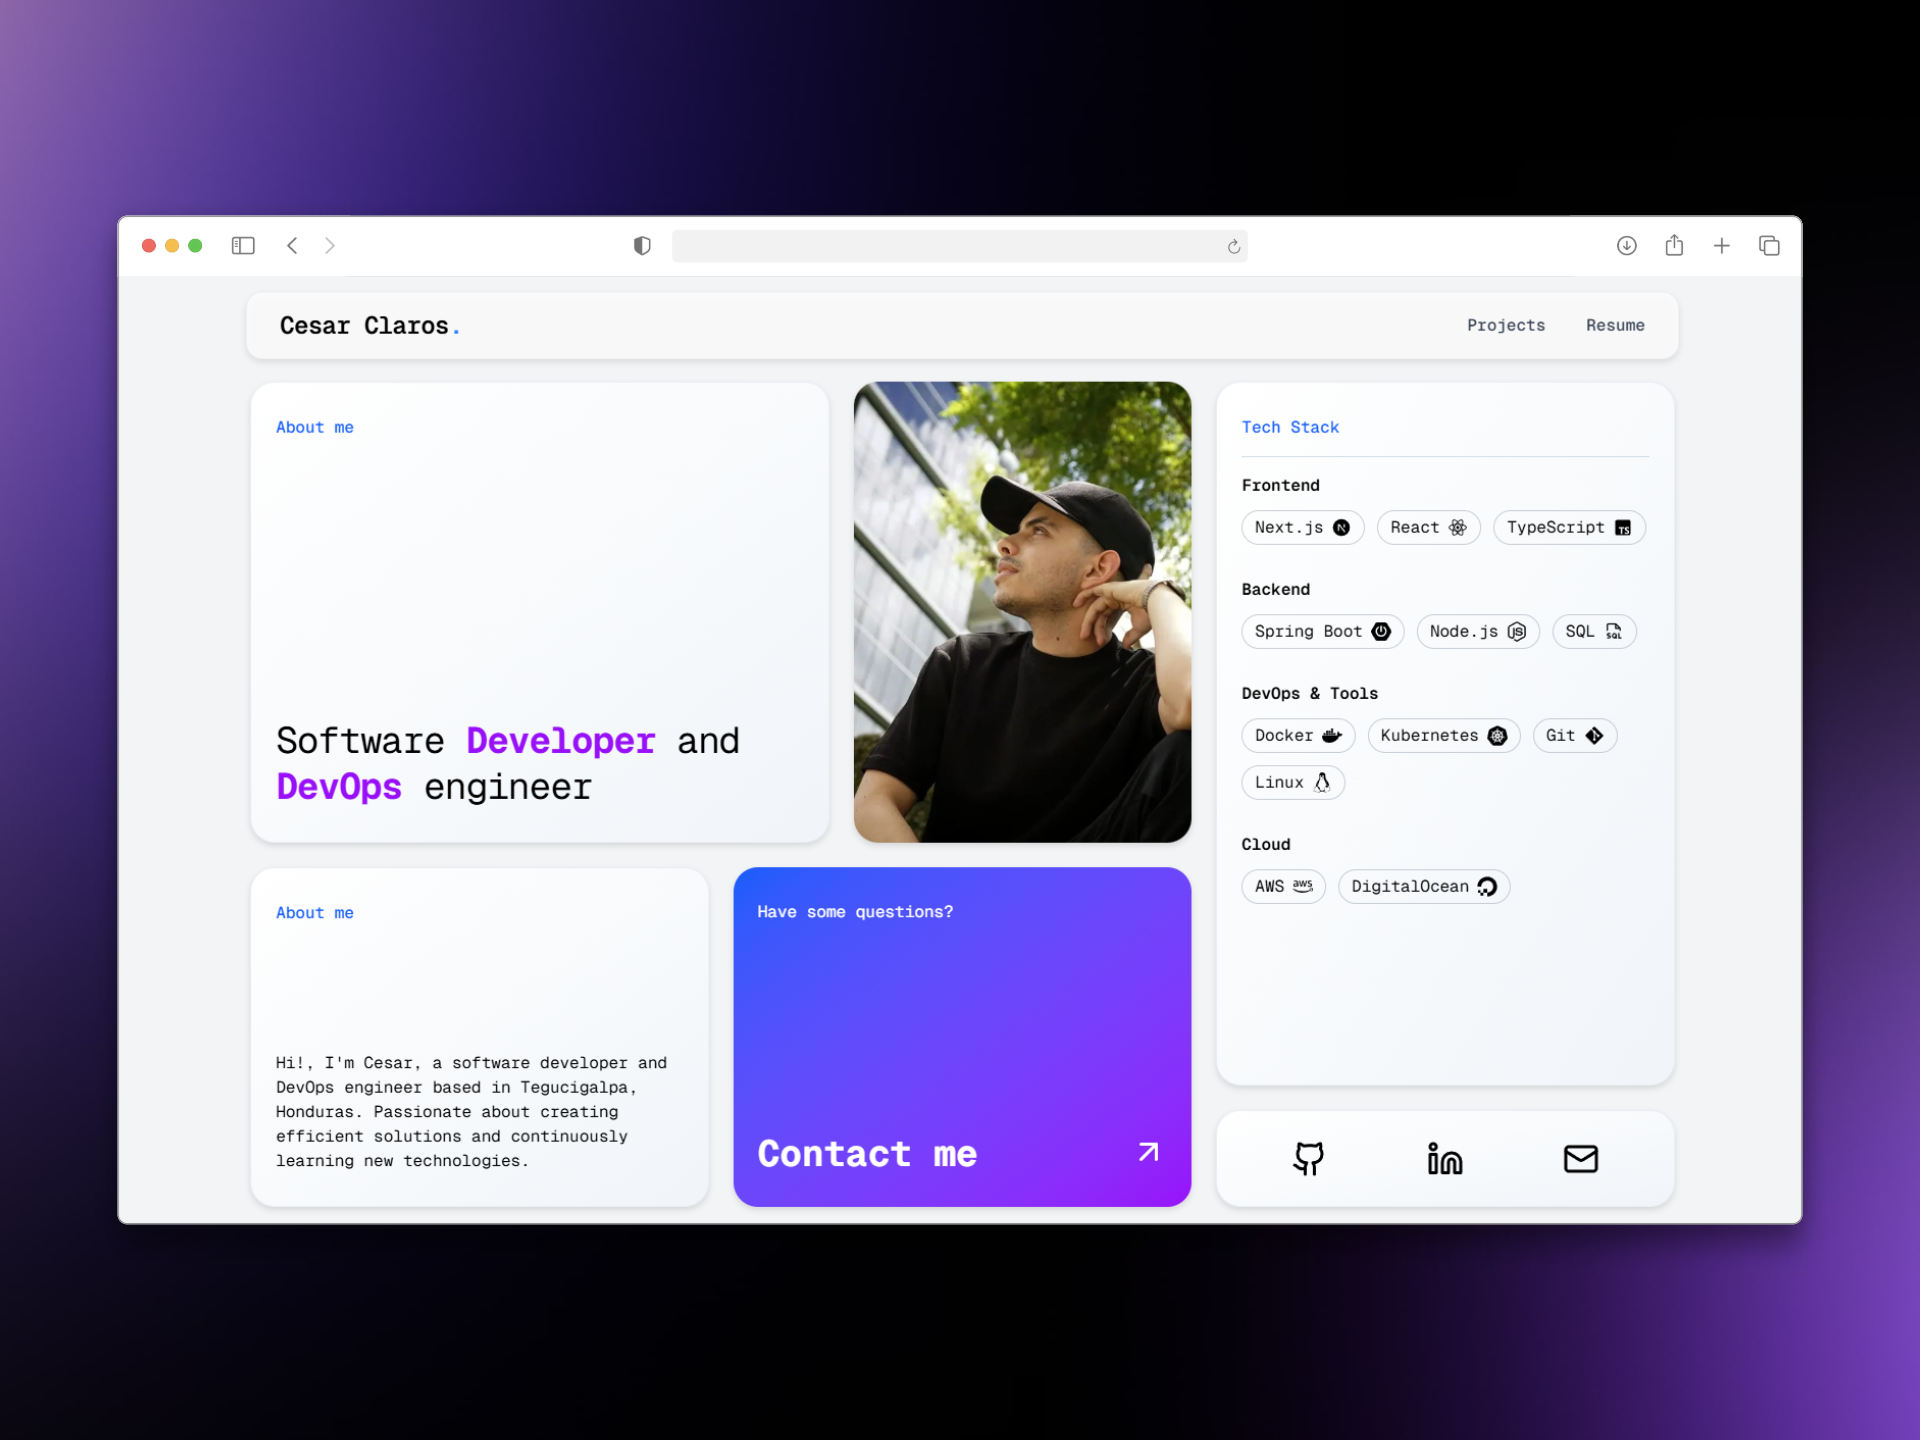
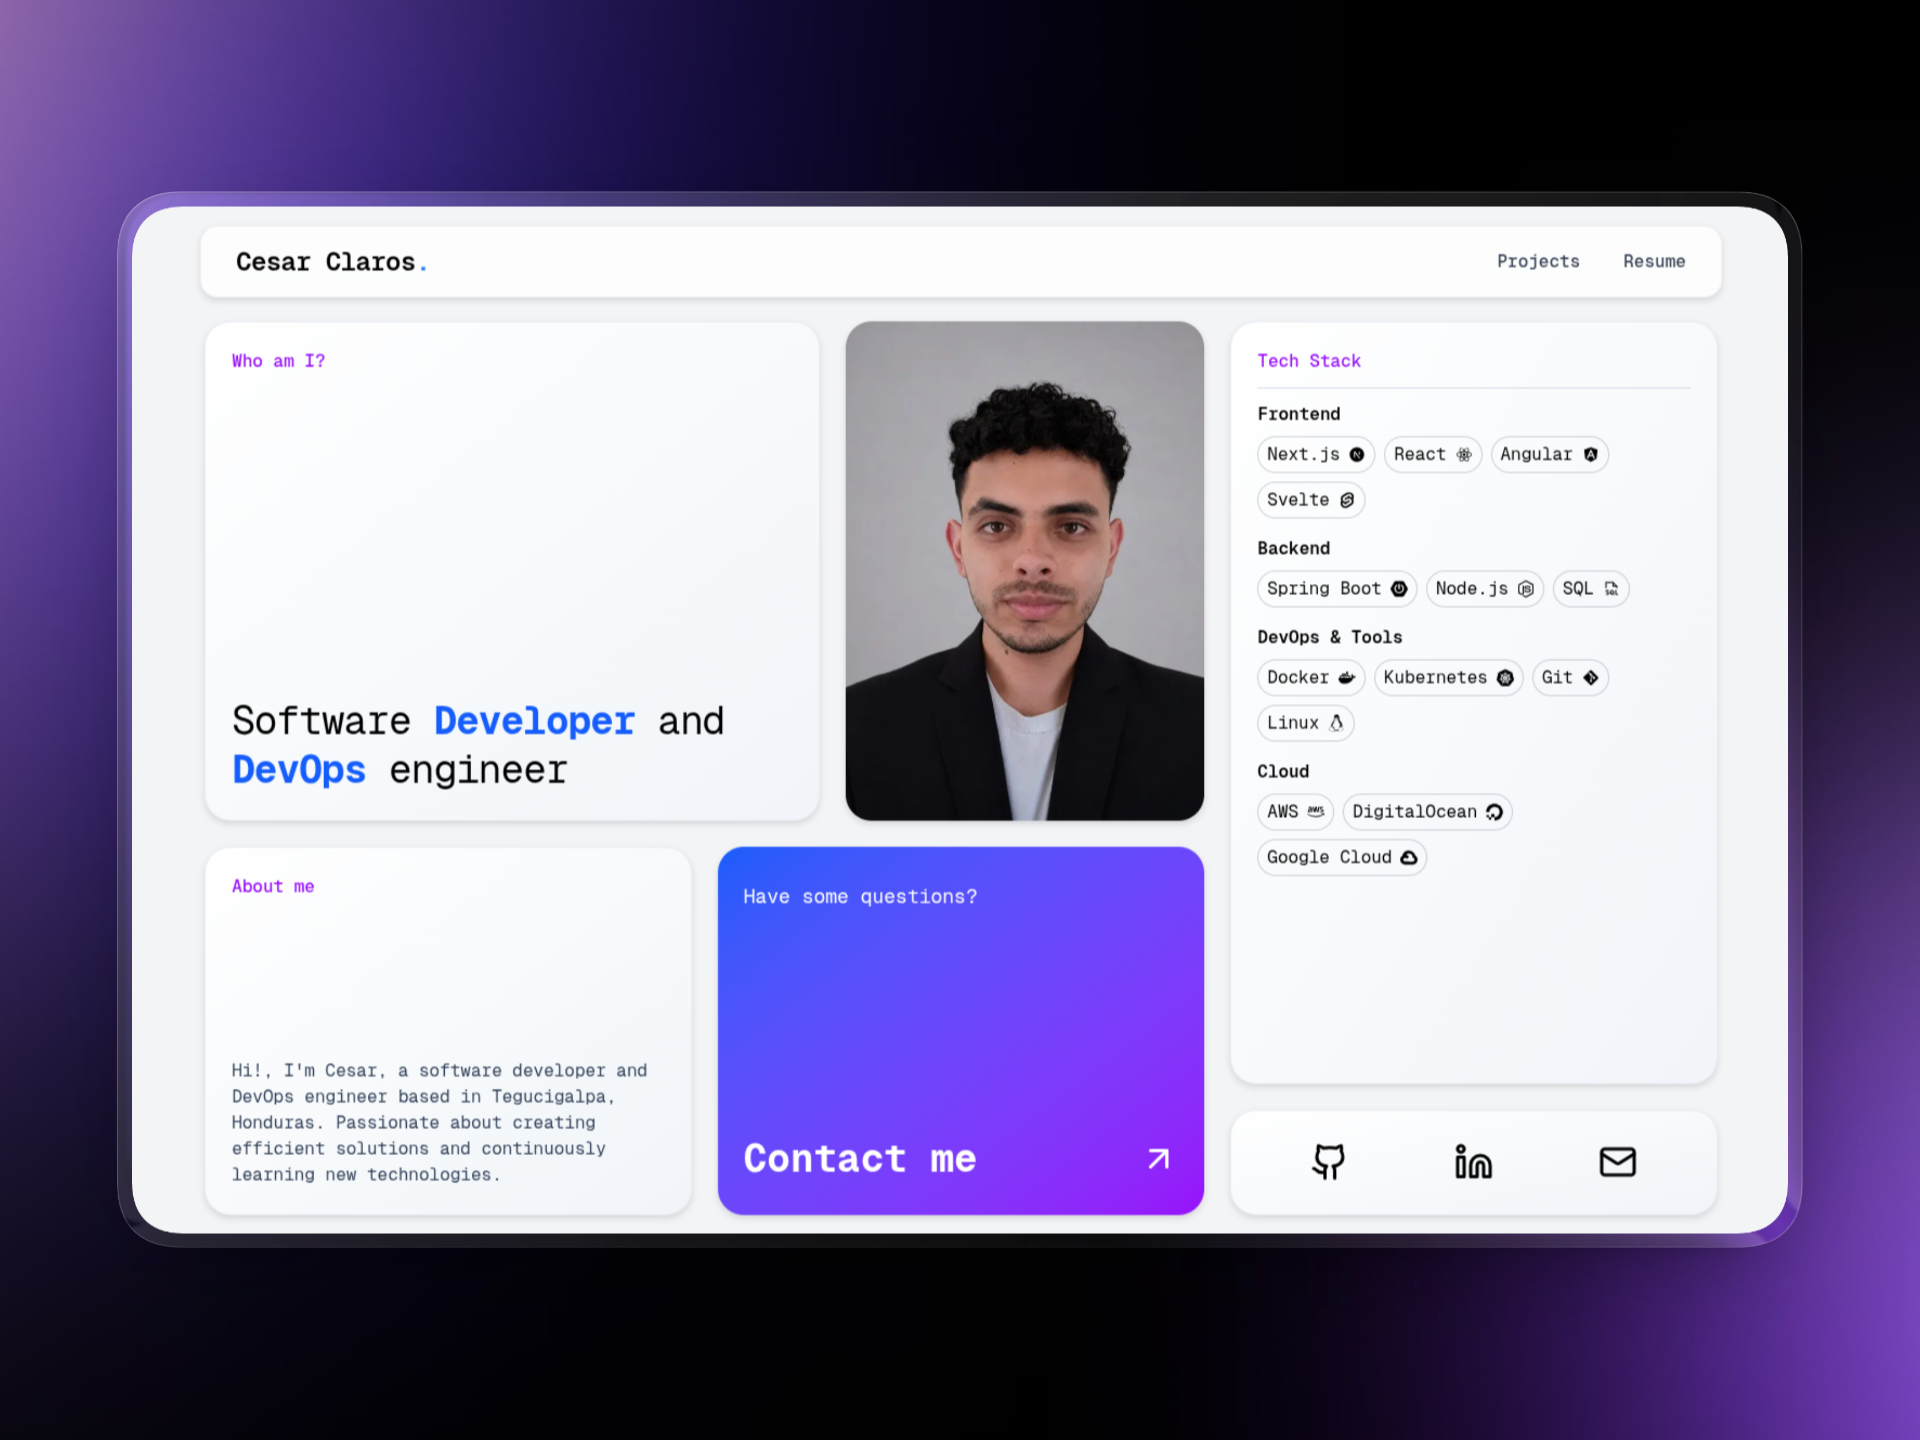
updated images and added new cloud tech

diff --git a/components/BentoGrid.tsx b/components/BentoGrid.tsx
@@ -4,7 +4,7 @@ import Link from "next/link";
 import Image from "next/image";
 import { FaAws, FaDigitalOcean, FaDocker, FaGitAlt, FaLinux, FaNodeJs } from "react-icons/fa";
 import { RiAngularjsFill, RiNextjsFill, RiReactjsFill, RiSvelteFill } from "react-icons/ri";
-import { SiKubernetes, SiSpringboot } from "react-icons/si";
+import { SiGooglecloud, SiKubernetes, SiSpringboot } from "react-icons/si";
 import { PiFileSql } from "react-icons/pi";
 import TechBadge from "./TechBadge";
 
@@ -83,6 +83,7 @@ export default function BentoGrid() {
             <div className="flex flex-wrap gap-2">
               <TechBadge name="AWS"><FaAws /></TechBadge>
               <TechBadge name="DigitalOcean"><FaDigitalOcean /></TechBadge>
+              <TechBadge name="Google Cloud"><SiGooglecloud /></TechBadge>
             </div>
           </div>
         </div>
